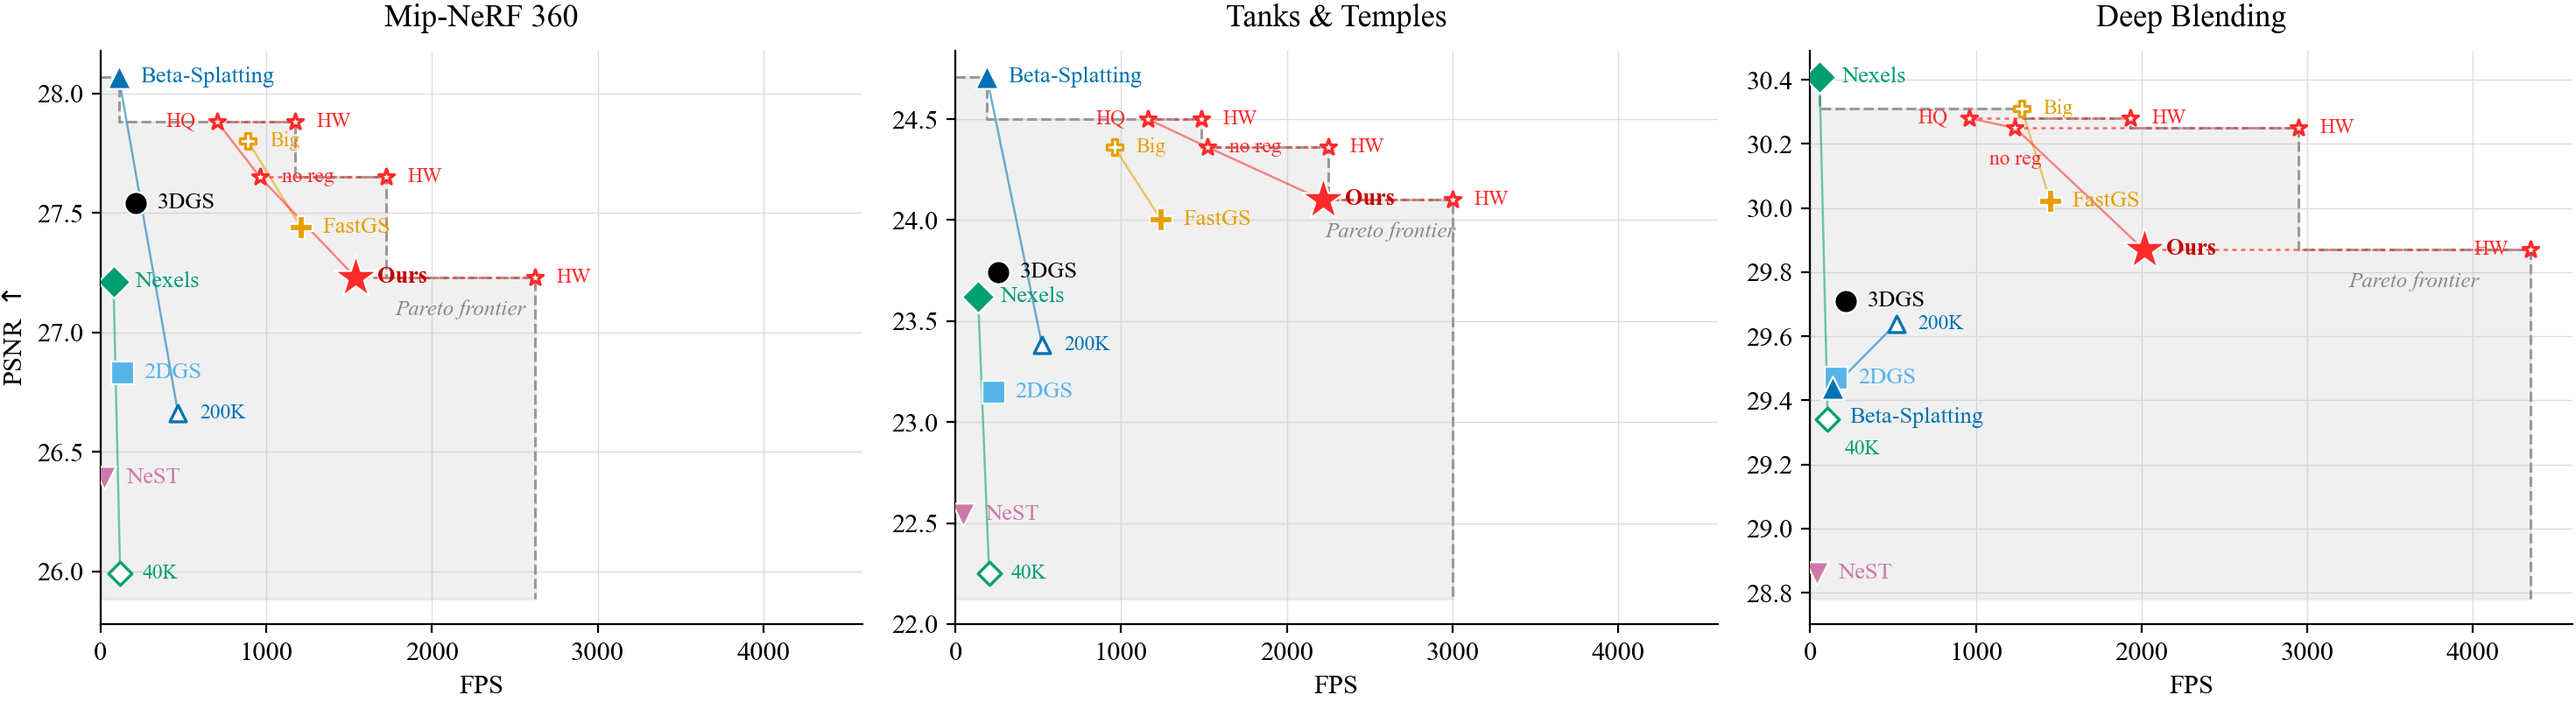
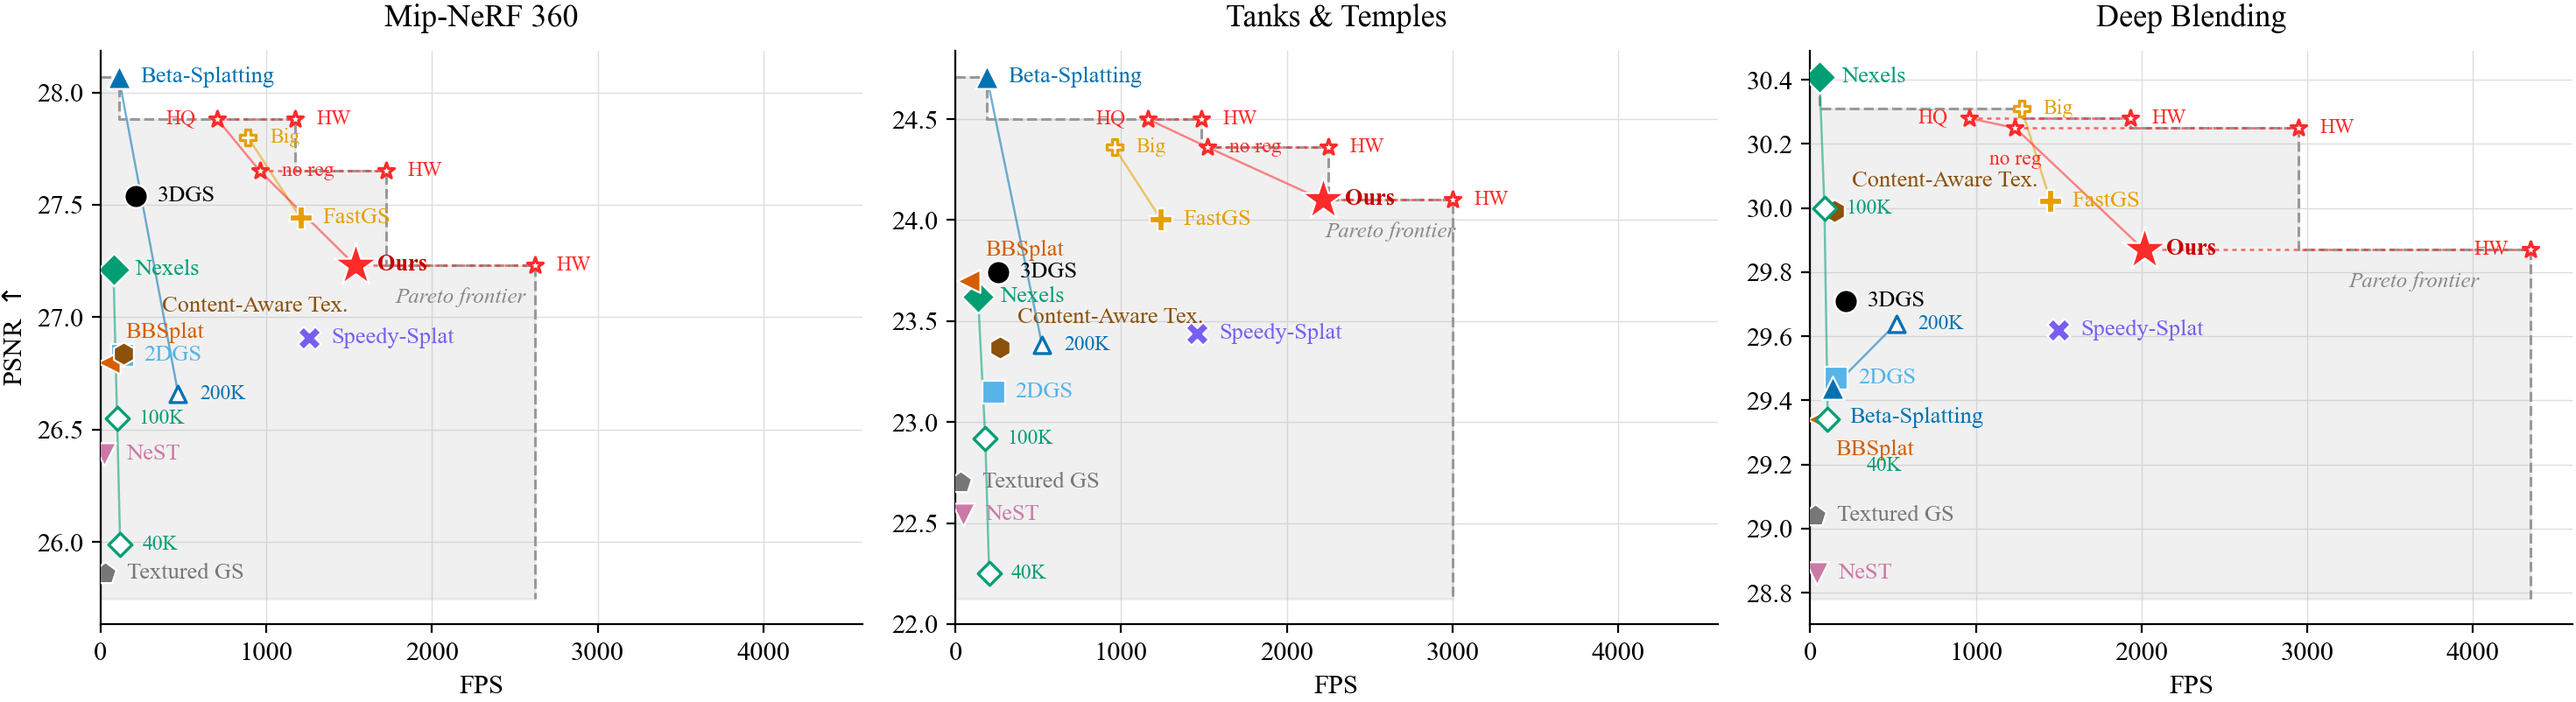
Pareto figures now include every method from the table

diff --git a/index.html b/index.html
@@ -366,8 +366,8 @@
 
   <figure>
     <img src="static/images/pareto.png" alt="LPIPS versus FPS on Mip-NeRF 360, Tanks and Temples and Deep Blending: our method sits alone at the fast end of the Pareto frontier on all three benchmarks">
-    <figcaption>LPIPS vs FPS (LPIPS decreases upward, so the best corner is top right) for seven
-      representative methods plus variants. Solid red links are our quality/speed ladder
+    <figcaption>LPIPS vs FPS (LPIPS decreases upward, so the best corner is top right) for
+      every method in the comparison plus variants. Solid red links are our quality/speed ladder
       (HQ &rarr; no reg &rarr; production); dashed links connect each configuration to the
       identical bake on the GPU&#39;s fixed-function rasterizer (hollow stars, measured
       quality parity). The frontier ends at our hardware points on every benchmark; on
